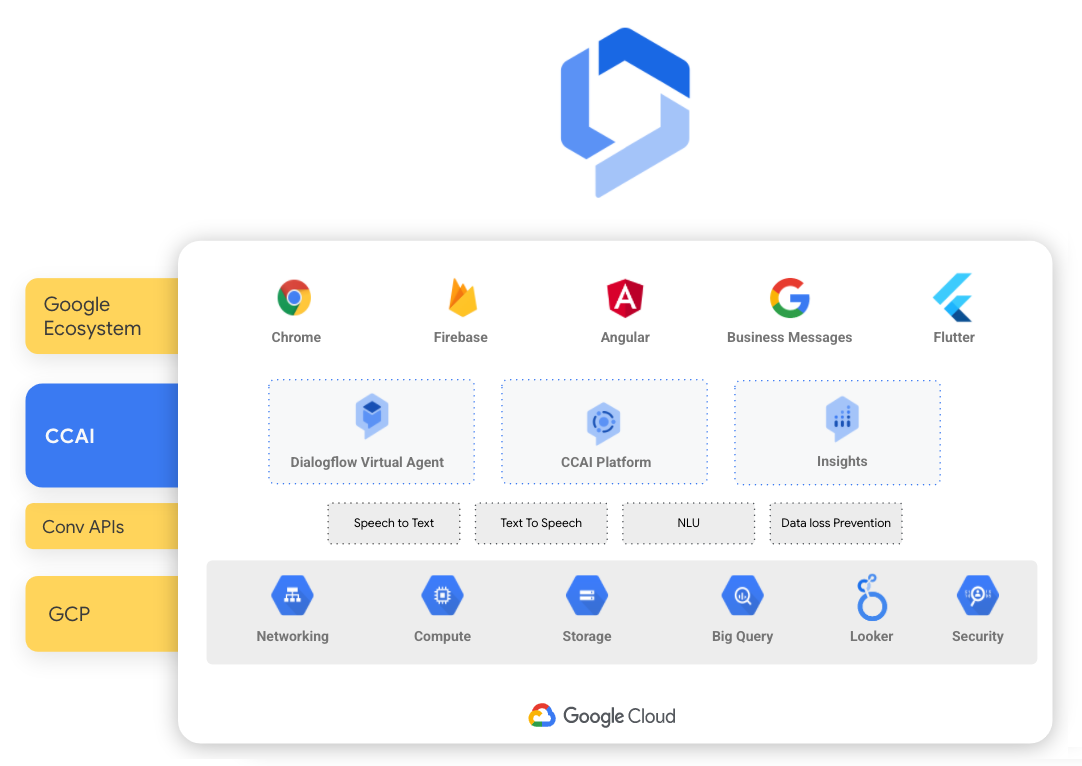
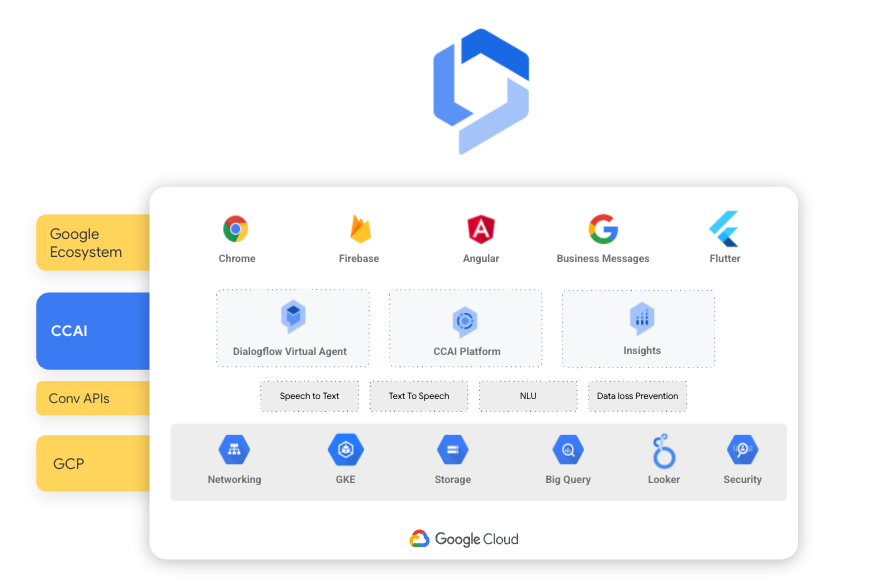
update image experience

diff --git a/README.md b/README.md
@@ -11,7 +11,8 @@ What you will see in the video below, is an early demo, built by DevRel on how w
 
 [![Omnichannel Demo Video](https://img.youtube.com/vi/ToYM8R0wW1I/0.jpg)](https://youtu.be/ToYM8R0wW1I)
 
-Conversational AI at Google Cloud:
+The big keypiece of my architecture is 
+<a href="https://cloud.google.com/conversational-ai">Google Cloud Conversational AI</a>. I am making use of the following components:
 
 <img src="https://github.com/GoogleCloudPlatform/dialogflow-ccai-omnichannel/blob/main/images/experience.png" width="800" />
 
